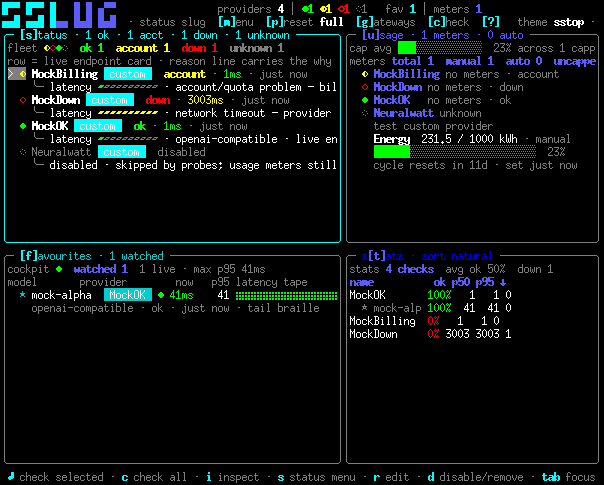
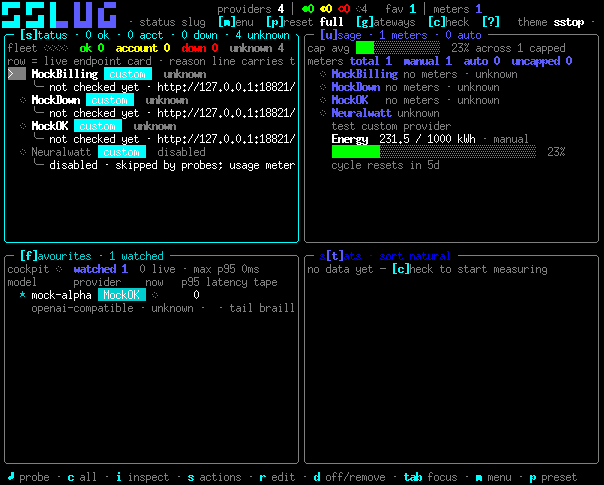
Polish refined dashboard checkpoint
Keep the SSLUG block wordmark while balancing the full dashboard columns and adopting the compact action footer from the preferred installed build. Add regression coverage for all three checkpoint properties.

diff --git a/internal/tui/dashboard/dashboard.go b/internal/tui/dashboard/dashboard.go
@@ -891,7 +891,7 @@ func (m model) activeViewDef() config.View {
 
 func builtinViews() []config.View {
 	return []config.View{
-		{Name: "full", Panels: []string{"status", "usage", "favourites", "stats"}, Arrangement: "grid", MainSplit: 0.58},
+		{Name: "full", Panels: []string{"status", "usage", "favourites", "stats"}, Arrangement: "grid", MainSplit: 0.50},
 		{Name: "compact", Panels: []string{"status", "usage", "favourites", "stats"}, Arrangement: "stack", Compact: true, MainSplit: 0.66},
 		{Name: "status-only", Panels: []string{"status"}, Arrangement: "stack", MainSplit: 1.0},
 		{Name: "stats-only", Panels: []string{"stats"}, Arrangement: "stack", MainSplit: 1.0},
@@ -1313,21 +1313,41 @@ func (m model) renderFooter() string {
 	accent := lipgloss.NewStyle().Foreground(lipgloss.Color(m.palette[theme.Accent])).Bold(true)
 	muted := lipgloss.NewStyle().Foreground(lipgloss.Color(m.palette[theme.Muted]))
 	item := func(key, desc string) string {
-		return accent.Render(key) + muted.Render(" "+desc)
+		return accent.Render(key) + muted.Render(desc)
 	}
-	var parts []string
+	var primary []string
 	switch m.focused {
 	case panelStatus:
-		parts = []string{item("⏎", "check selected"), item("c", "check all"), item("i", "inspect"), item("s", "status menu"), item("r", "edit"), item("d", "disable/remove")}
+		primary = []string{item("⏎", " probe"), item("c", " all"), item("i", " inspect"), item("s", " actions"), item("r", " edit"), item("d", " off/remove")}
 	case panelUsage:
-		parts = []string{item("u", "usage menu"), item("set", "meter value"), item("add", "meter"), item("refresh", "auto"), item("j/k", "scroll")}
+		primary = []string{item("u", " actions"), item("j/k", " rows"), item("↑/↓", " scroll"), item("⏎", " set via menu")}
 	case panelFavourites:
-		parts = []string{item("⏎", "probe model"), item("f", "favourites menu"), item("sort", m.prefs.favSort), item("a", "add provider")}
+		primary = []string{item("⏎", " probe"), item("f", " actions"), item("j/k", " rows"), item("a", " provider")}
 	case panelStats:
-		parts = []string{item("t", "stats menu"), item("click", "sort column"), item("p50/p95", "latency"), item("z", "zoom")}
+		primary = []string{item("t", " actions"), item("click", " sort"), item("j/k", " rows"), item("z", " zoom")}
 	}
-	parts = append(parts, item("tab", "focus"), item("m", "menu"), item("p", "view"), item("?", "help"), item("q", "quit"))
-	return " " + truncate(strings.Join(parts, muted.Render(" · ")), m.width-1)
+	primary = append(primary, item("tab", " focus"), item("m", " menu"), item("p", " preset"), item("?", " help"), item("q", " quit"))
+	return " " + fitActionLine(primary, m.width-1, muted.Render(" · "))
+}
+
+func fitActionLine(parts []string, width int, sep string) string {
+	if width <= 0 {
+		return ""
+	}
+	var line string
+	for _, part := range parts {
+		candidate := part
+		if line != "" {
+			candidate = line + sep + part
+		}
+		if ansi.StringWidth(candidate) <= width {
+			line = candidate
+		}
+	}
+	if line == "" && len(parts) > 0 {
+		return truncate(parts[0], width)
+	}
+	return line
 }
 
 // renderStack renders panels vertically in view order.

diff --git a/internal/tui/dashboard/dashboard_test.go b/internal/tui/dashboard/dashboard_test.go
@@ -436,6 +436,37 @@ func TestRenderScrollable(t *testing.T) {
 	}
 }
 
+func TestFullViewUsesBalancedColumns(t *testing.T) {
+	full := builtinViews()[0]
+	if full.Name != "full" || full.MainSplit != 0.50 {
+		t.Fatalf("full view should use balanced columns: %+v", full)
+	}
+}
+
+func TestHeaderKeepsSSLUGWordmark(t *testing.T) {
+	m := newTestModel()
+	rows, _ := m.headerRows()
+	got := ansi.Strip(strings.Join(rows, "\n"))
+	for _, want := range []string{theme.ArtLines[0], "status slug"} {
+		if !strings.Contains(got, want) {
+			t.Fatalf("header missing wordmark component %q:\n%s", want, got)
+		}
+	}
+}
+
+func TestFooterUsesCompactWholeActions(t *testing.T) {
+	m := newTestModel()
+	got := ansi.Strip(m.renderFooter())
+	for _, want := range []string{"⏎ probe", "c all", "s actions", "p preset"} {
+		if !strings.Contains(got, want) {
+			t.Fatalf("footer missing compact action %q: %q", want, got)
+		}
+	}
+	if ansi.StringWidth(m.renderFooter()) > m.width {
+		t.Fatalf("footer exceeds width %d: %q", m.width, got)
+	}
+}
+
 func TestHeaderClickRegionsOpenMenu(t *testing.T) {
 	m := newTestModel()
 	_, regions := m.headerRows()
